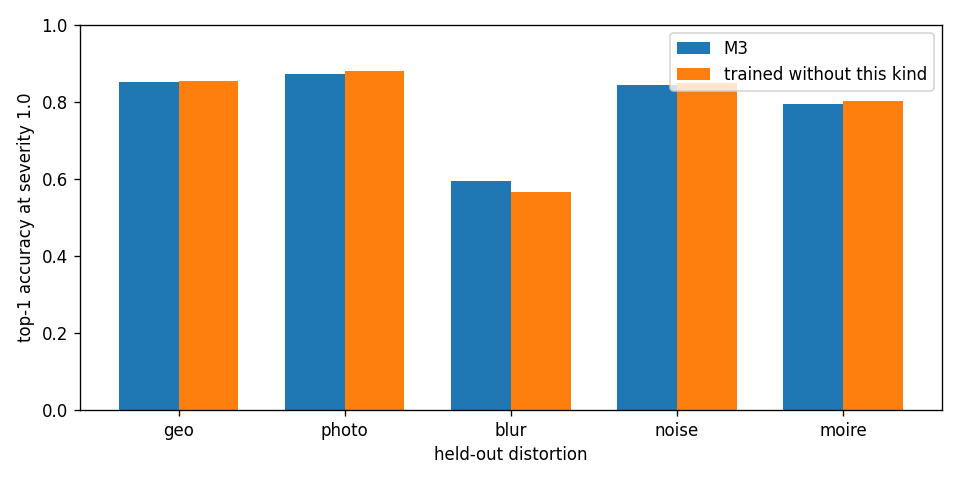
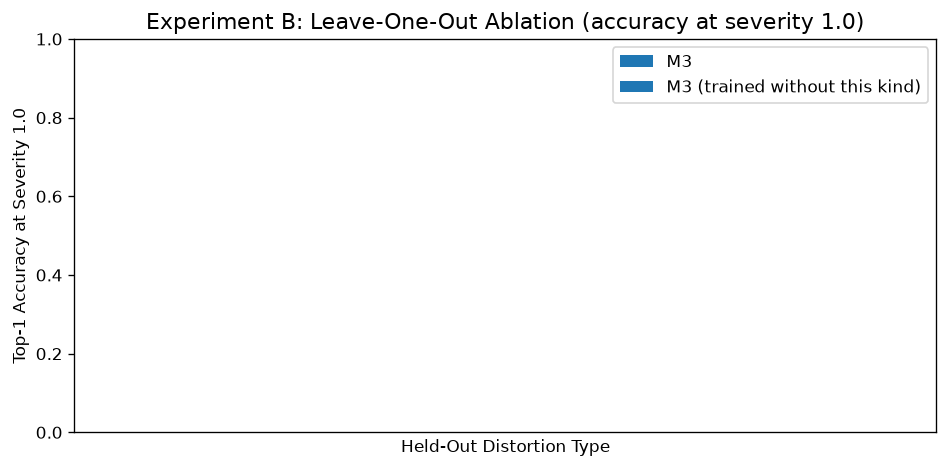
fix(plots): label the leave-one-out chart in plain words
Name the held-out distortions, and title the accuracy axis at severity 1.0.

diff --git a/plot_results.py b/plot_results.py
@@ -57,12 +57,20 @@ def draw_leaveout(rows: list[dict], severity: float, dest) -> None:
     positions = range(len(held))
     fig, axis = plt.subplots(figsize=(8, 4))
     width = 0.36
+    title_map = {
+        "geo": "Geometric",
+        "photo": "Photometric",
+        "blur": "Blur",
+        "noise": "Noise",
+        "moire": "Moire",
+    }
     axis.bar([p - width / 2 for p in positions], full, width=width, label="M3")
-    axis.bar([p + width / 2 for p in positions], dropped, width=width, label="trained without this kind")
-    axis.set_xticks(list(positions), [TITLE_MAP[kind] for kind in held])
+    axis.bar([p + width / 2 for p in positions], dropped, width=width, label="M3 (trained without this kind)")
+    axis.set_xticks(list(positions), [title_map[kind] for kind in held])
     axis.set_ylim(0, 1)
-    axis.set_ylabel(f"top-1 accuracy at severity {severity}")
-    axis.set_xlabel("held-out distortion")
+    axis.set_title("Experiment B: Leave-One-Out Ablation (accuracy at severity 1.0)", fontsize=13)
+    axis.set_xlabel("Held-Out Distortion Type")
+    axis.set_ylabel("Top-1 Accuracy at Severity 1.0")
     axis.legend()
     fig.tight_layout()
     dest.parent.mkdir(parents=True, exist_ok=True)
